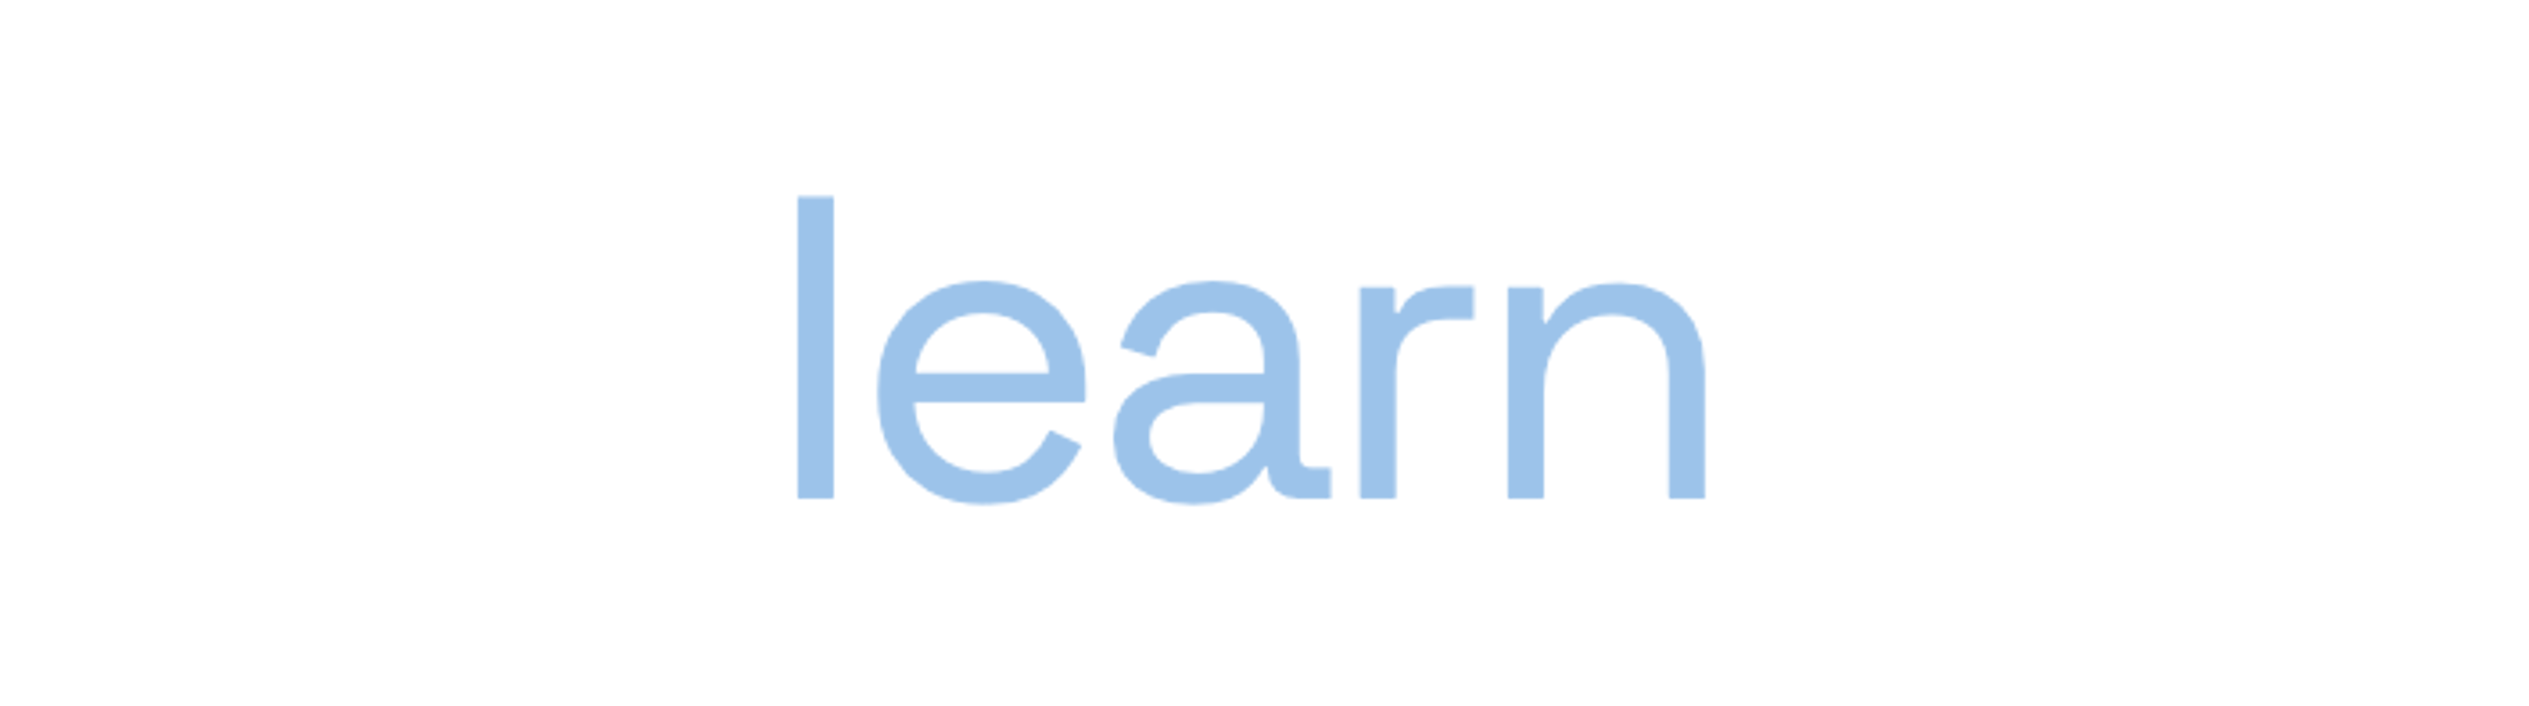
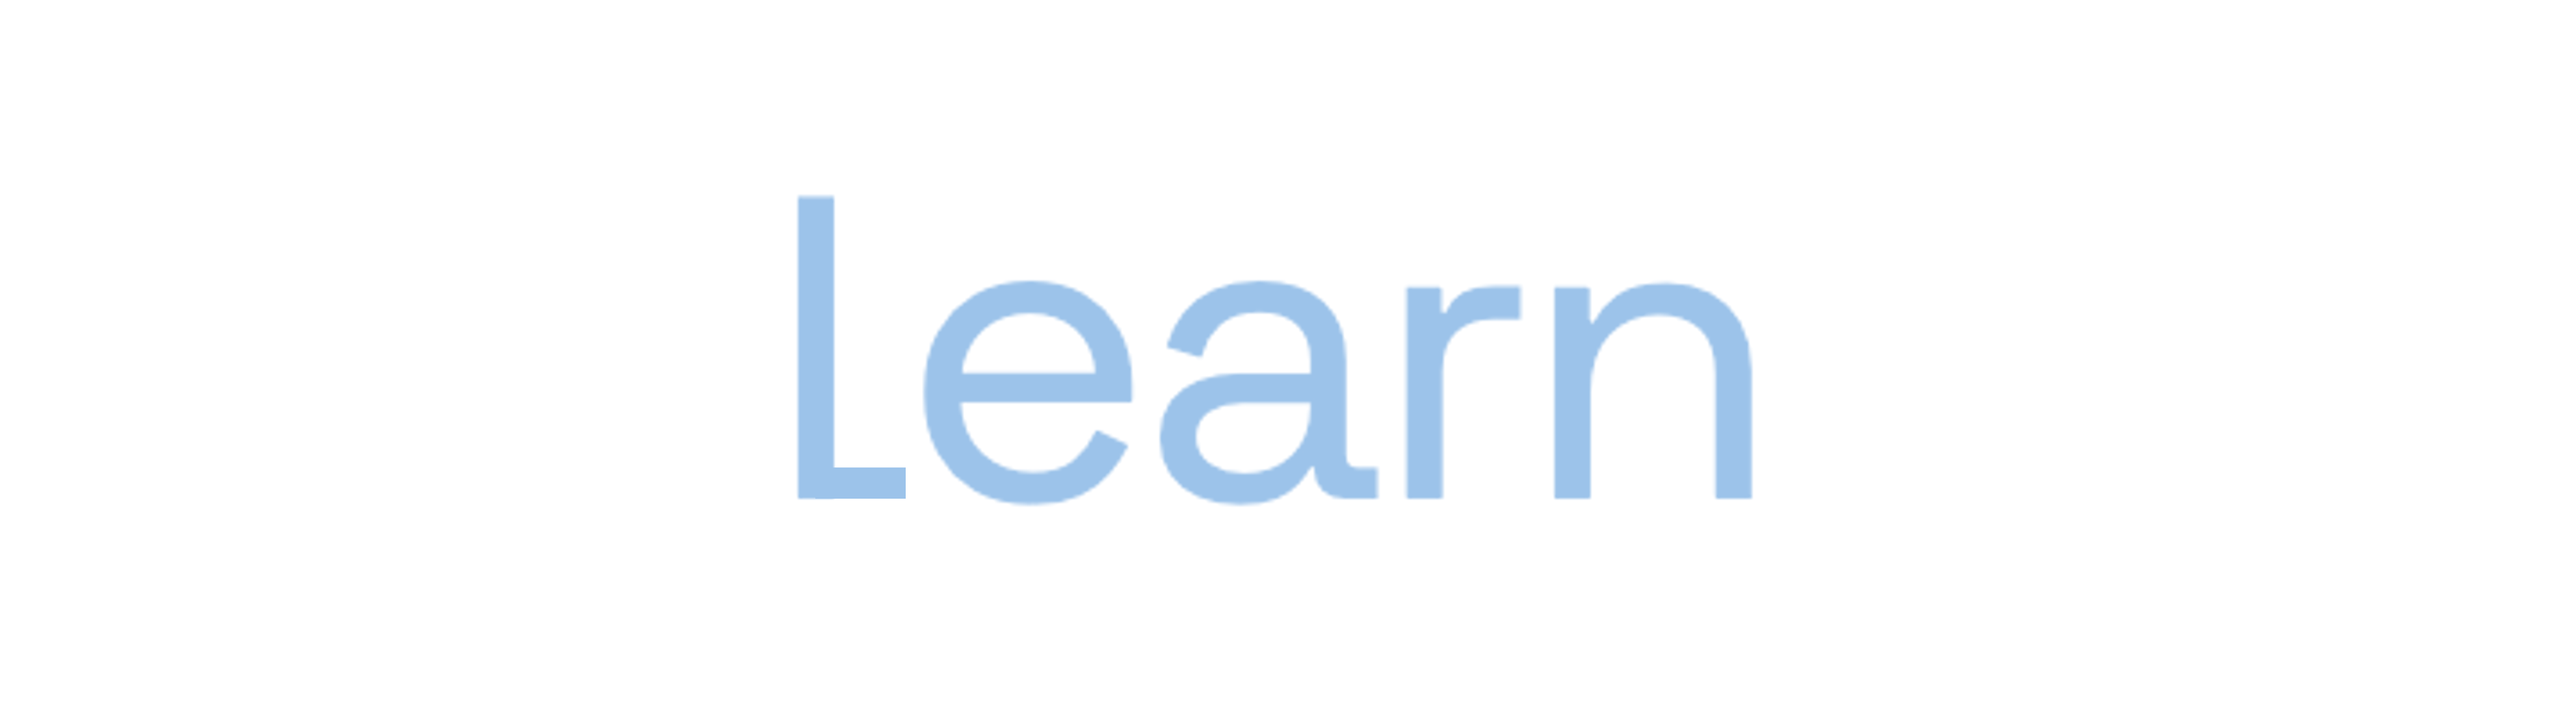
Updates

Changed region(s): [[0.311, 0.2735, 0.6841, 0.7293]]

diff --git a/_sass/_base.scss b/_sass/_base.scss
@@ -264,9 +264,21 @@ html[data-theme="dark"] .about-hero {
 .about-tagline {
   font-variant: small-caps;
   letter-spacing: 0.08em;
-  font-size: 1.15rem;
+  font-size: 1rem;
   color: var(--global-text-color-light);
   margin: 0;
+}
+
+// Short, discreet divider between the home-page header and content
+.about-separator {
+  width: 3.5rem;
+  margin: 1.5rem auto 1.75rem;
+  border: 0;
+  border-top: 1px solid var(--global-divider-color);
+}
+
+html[data-theme="dark"] .about-tagline {
+  color: #b8cbe0;
 }
 
 @media (max-width: 576px) {
@@ -276,7 +288,7 @@ html[data-theme="dark"] .about-hero {
   }
 
   .about-tagline {
-    font-size: 0.95rem;
+    font-size: 0.85rem;
     letter-spacing: 0.04em;
   }
 }
@@ -513,7 +525,7 @@ html[data-theme="dark"] .about-hero {
   opacity: 0.95;
 }
 
-// Navbar as the logo strip (enabled by site.logo_tagline)
+// Navbar as the logo strip (enabled by site.logo_strip)
 .navbar:has(.navbar-brand-strip) {
   background-color: #edf3f9;
   border-bottom: none;
@@ -533,29 +545,12 @@ html[data-theme="dark"] .navbar:has(.navbar-brand-strip) {
   .navbar-logo {
     height: 2.75rem;
   }
-
-  .navbar-tagline {
-    font-variant: small-caps;
-    letter-spacing: 0.06em;
-    font-size: 0.68rem;
-    color: var(--global-text-color-light);
-    margin-top: 0.1rem;
-  }
-}
-
-html[data-theme="dark"] .navbar-brand-strip .navbar-tagline {
-  color: #b8cbe0;
 }
 
 @media (max-width: 576px) {
   .navbar .navbar-brand-strip {
     .navbar-logo {
       height: 2.25rem;
-    }
-
-    .navbar-tagline {
-      font-size: 0.58rem;
-      letter-spacing: 0.03em;
     }
   }
 }

diff --git a/_sass/_layout.scss b/_sass/_layout.scss
@@ -26,7 +26,11 @@ body.fixed-top-nav {
 
 // Taller navbar when it carries the logo strip
 body.fixed-top-nav:has(.navbar-brand-strip) {
-  padding-top: 84px;
+  padding-top: 72px;
+
+  @media (max-width: 576px) {
+    padding-top: 64px;
+  }
 }
 
 body.sticky-bottom-footer {

diff --git a/_pages/about.md b/_pages/about.md
@@ -18,6 +18,9 @@ social: false  # includes social icons
   <img src="{{ '/assets/img/learnCPS-full-transparent.png' | relative_url }}" alt="learnCPS logo" class="learncps-logo logo-light" style="max-width: 250px; width: 100%; height: auto;">
   <img src="{{ '/assets/img/learnCPS-full-night-transparent.png' | relative_url }}" alt="learnCPS logo" class="learncps-logo logo-dark" style="max-width: 250px; width: 100%; height: auto;">
 </p>
+<p class="about-tagline" style="text-align: center;">Learning for Cyber-Physical-Systems &middot; TU Wien</p>
+
+<hr class="about-separator">
 
 
 <!-- <h2> About </h2> -->
@@ -30,13 +33,13 @@ social: false  # includes social icons
     </a>
     <span class="pi-message-signature">
       <a href="{{ '/people/' | relative_url }}">Asst. Prof. Christos Mavridis</a>
-      <span class="pi-message-role">Principal Investigator, <span class="learncps-wordmark"><span class="learn">learn</span><span class="cps">CPS</span></span> lab </span>
+      <span class="pi-message-role">Principal Investigator, <span class="learncps-wordmark"><span class="learn">Learn</span><span class="cps">CPS</span></span> lab </span>
     </span>
   </figcaption>
 </figure>
 
 
 <p style="text-align: center;">
-  <img src="{{ '/assets/img/learncps-topics.png' | relative_url }}" alt="learnCPS research topics" class="logo-light" style="max-width: 720px; width: 100%; height: auto; background-color: #ffffff; border-radius: 1rem; padding: 1rem;">
-  <img src="{{ '/assets/img/learncps-topics.png' | relative_url }}" alt="learnCPS research topics" class="logo-dark" style="max-width: 720px; width: 100%; height: auto; background-color: #c4c4c4; border-radius: 1rem; padding: 1rem;">
+  <img src="{{ '/assets/img/learncps-topics.png' | relative_url }}" alt="learnCPS research topics" class="logo-light" style="max-width: 820px; width: 100%; height: auto; background-color: #ffffff; border-radius: 1rem; padding: 1rem;">
+  <img src="{{ '/assets/img/learncps-topics.png' | relative_url }}" alt="learnCPS research topics" class="logo-dark" style="max-width: 820px; width: 100%; height: auto; background-color: #c4c4c4; border-radius: 1rem; padding: 1rem;">
 </p>

diff --git a/_pages/join.md b/_pages/join.md
@@ -9,7 +9,7 @@ nav_order: 5
 ---
 
 <p style="text-align: justify;">
-If you are interested in joining <span class="learncps-wordmark"><span class="learn">learn</span><span class="cps">CPS</span></span>, send us an email at <span style="font-family: monospace;">christos.mavridis [at] tuwien.ac.at</span>.
+If you are interested in joining <span class="learncps-wordmark"><span class="learn">Learn</span><span class="cps">CPS</span></span>, send us an email at <span style="font-family: monospace;">christos.mavridis [at] tuwien.ac.at</span>.
 <br>
 Use title <span style="font-family: monospace;">"Interest in joining learnCPS"</span> and include:
 </p>
